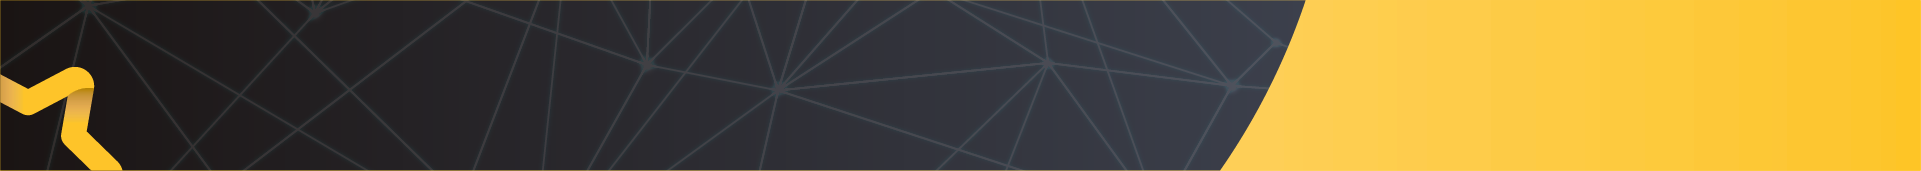
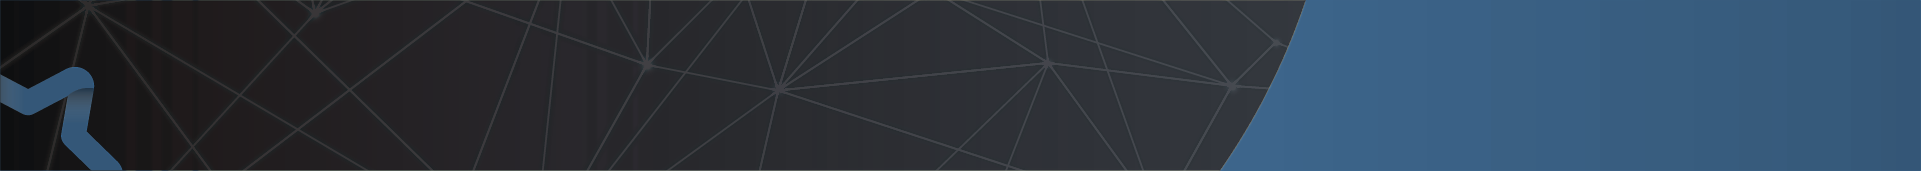
cambios visuales

diff --git a/src/app/TopMenu/TopMenu.component.html b/src/app/TopMenu/TopMenu.component.html
@@ -1,6 +1,6 @@
 <nav class="navbar navbar-expand-md navbar-dark gris ">
-  <a class="navbar-brand" routerLink="/Inicio">
-    <img class="img-fluid" [src]="company.logo" alt="" />
+  <a class="navbar-brand" routerLink="/Inicio" style="width: 100%;">
+    <img class="img-fluid" src="assets/img/urrea_white.svg" alt="" />
   </a>
 
   <button class="navbar-toggler" type="button" data-toggle="collapse"
@@ -18,7 +18,7 @@
         </li> -->
         <li class="nav-item dropdown mr-2 mt-auto mb-auto notificaciones">
           <a class="nav-link pb-0 pt-0" href="javascript:void(0);" id="notificacionsDropdown" role="button" data-toggle="dropdown" aria-haspopup="true" aria-expanded="false" (click)="verNotificaciones()">
-            <i class="fas fa-1x fa-bell" style="color: #0B3B59;"></i><span *ngIf='show' class="badge badge-pill badge-warning">{{ notificaciones.conteoNoLeidos }}</span>
+            <i class="fas fa-1x fa-bell" style="color: white;"></i><span *ngIf='show' class="badge badge-pill badge-warning">{{ notificaciones.conteoNoLeidos }}</span>
           </a>
           <div id="text-notificaciones">Notificaciones</div>
           <div class="dropdown-menu" aria-labelledby="notificacionsDropdown">
@@ -37,7 +37,7 @@
         </li>
         <li class="nav-item dropdown mr-2 mt-auto mb-auto">
           <a class="nav-link dropdown-toggle" href="#" id="navbarDropdownMenuLink" role="button" data-toggle="dropdown" aria-haspopup="true" aria-expanded="false">
-            <span style="color: black;">{{ user.Nombre + ' ' + user.Paterno + ' ' + user.Materno }}</span>
+            <span style="color: white;">{{ user.Nombre + ' ' + user.Paterno + ' ' + user.Materno }}</span>
           </a>
           <div class="dropdown-menu" aria-labelledby="navbarDropdownMenuLink">
             <a *ngIf="accesoAdmin" class="dropdown-item" routerLink="/admin">Administración</a>

diff --git a/src/app/store/producto/producto.component.scss b/src/app/store/producto/producto.component.scss
@@ -22,7 +22,7 @@
         font-size: 48px;
         // line-height: 32px;
         font-weight: bold;
-        color: orange;
+        color: #539BC1;
         display: flex;
         align-items: center;
         img{
@@ -65,7 +65,7 @@
             }
         }
         .btn-add-cart{
-            background-color: orange;
+            background-color: #539BC1;
             font-weight: 900;
             border-radius: 20px;
             color: white;
@@ -81,7 +81,7 @@
             display: block;
             margin-top: 15px;
             font-weight: 900;
-            color: orange;
+            color: #539BC1;
         }
     }
     .sin-stock{
@@ -102,7 +102,7 @@
             .green{
                 width: 136px;
                 height: 100%;
-                background-color: orange;
+                background-color: #539BC1;
             }
         }
     }
@@ -135,7 +135,7 @@
         .green{
             width: 136px;
             height: 100%;
-            background-color: orange;
+            background-color: #539BC1;
         }
     }
     a{
@@ -147,7 +147,7 @@
         text-decoration: none;
         border-bottom: 2px solid #ddd;
         &:hover{
-            border-bottom-color: orange;
+            border-bottom-color: #539BC1;
         }
     }
 }
@@ -160,7 +160,7 @@
     align-items: center;
     i{
         padding: 18px 20px;
-        background: orange;
+        background: #539BC1;
         color: white;
         margin-right: 24px;
         border-radius: 50%;

diff --git a/src/app/ReconocerAOtros/EnviarReconocimiento/EnviarReconocimiento.component.scss b/src/app/ReconocerAOtros/EnviarReconocimiento/EnviarReconocimiento.component.scss
@@ -14,7 +14,7 @@
         color: white;
         font-size: 22px;
         span{
-            color: orange;
+            color: #539BC1;
         }
     }
 }
@@ -82,7 +82,7 @@
         .simbolo{
             max-width: 90px;
             #simbolo{
-                color: orange;
+                color: #539BC1;
                 font-size: 60px;
                 font-weight: 900;
                 line-height: 1;
@@ -165,7 +165,7 @@
             font-size: 26px;
             white-space: break-spaces;
             i{
-                color: orange;
+                color: #539BC1;
                 font-size: 30px;
                 margin-right: 10px;
                 svg{
@@ -182,7 +182,7 @@
         }
         .search{
             i{
-                color: orange;
+                color: #539BC1;
                 position: absolute;
                 right: 30px;
                 top: 10px;
@@ -192,7 +192,7 @@
         }
         .competencias-list{
             i{
-                color: orange;
+                color: #539BC1;
                 font-size: 30px;
                 margin-right: 10px;
                 position: absolute;
@@ -233,7 +233,7 @@
     display: flex;
     align-items: center;
     button{
-        background-color: orange;
+        background-color: #539BC1;
         color: white;
         font-weight: bold;
         font-size: 2.6vw;

diff --git a/src/app/AdministrarTienda/InicioStore/InicioStore.component.scss b/src/app/AdministrarTienda/InicioStore/InicioStore.component.scss
@@ -11,7 +11,7 @@
         &:hover{
             border-width: 2px;
             border-style: solid;
-            border-color: orange !important;
+            border-color: #539BC1 !important;
         }
     }
     .btn-rechazar{
@@ -34,7 +34,7 @@
         border-color: #F57F10 !important;
         font-size: 14px;
         i{
-            color: orange;
+            color: #539BC1;
         }
         &:hover{
             border-width: 2px;
@@ -49,12 +49,12 @@
         color: white;
         font-size: 14px;
         i{
-            color: #orange;
+            color: #539BC1;
         }
         &:hover{
             border-width: 2px;
             border-style: solid;
-            border-color: #orange !important;
+            border-color: #539BC1 !important;
         }
     }
 
@@ -65,7 +65,7 @@
       text-transform: uppercase;
       font-size: 14px;
         i{
-            color: orange;
+            color: #539BC1;
         }
     }
     .rechazado{
@@ -75,7 +75,7 @@
       text-transform: uppercase;
       font-size: 14px;
         i{
-            color: orange;
+            color: #539BC1;
         }
     }
 }

diff --git a/src/app/store/catalogo/catalogo.component.scss b/src/app/store/catalogo/catalogo.component.scss
@@ -1,5 +1,5 @@
 .header{
-    background: url('../../../assets/img/banners/tienda.png');
+    background: url('../../../assets/img/banners/generico.png');
     height: 130px;
     background-position: center left;
     background-size: cover;
@@ -27,7 +27,7 @@
         .green{
             width: 136px;
             height: 100%;
-            background-color: orange;
+            background-color: #539BC1;
         }
     }
 }
@@ -82,10 +82,10 @@
                 padding-bottom: 5px;
                 &.current, &:hover{
                     .img{
-                        background: orange !important;
+                        background: #539BC1 !important;
                     }
                     a{
-                        color: orange !important;
+                        color: #539BC1 !important;
                     }
                 }
             }
@@ -117,7 +117,7 @@
     align-items: center;
     i{
         padding: 18px 20px;
-        background: orange;
+        background: #539BC1;
         color: white;
         margin-right: 24px;
         border-radius: 50%;

diff --git a/notificaciones/Notificacion-Aceptado.html b/notificaciones/Notificacion-Aceptado.html
@@ -12,7 +12,7 @@
 	</tr>
 	<tr>
 		<td style="width: 600px; height: auto; padding: 20px;text-align:center; background: #fff;">
-			<h2 style="font-size: 30px;font-weight: bold;background: #0b3b59;padding: 15px;border-radius: 0px 0px 25px 0px;color: white;"><span style="color: orange;">{{competencia_id}}</span> {{competencia_nombre}}:</h2>
+			<h2 style="font-size: 30px;font-weight: bold;background: #0b3b59;padding: 15px;border-radius: 0px 0px 25px 0px;color: white;"><span style="color: #539BC1;">{{competencia_id}}</span> {{competencia_nombre}}:</h2>
 			<p style="text-align:left;font-weight: bold;">*{{competencia_descripcion}}</p>
 		</td>
 	</tr>
@@ -61,7 +61,7 @@
 		<td>
 			<table cellpadding="0" cellspacing="0" style="width: 100%;">
 				<tr>
-					<td style="width:33%;height:9px;background-color: orange;"></td>
+					<td style="width:33%;height:9px;background-color: #539BC1;"></td>
 					<td style="width:33%;height:9px;background-color: #47B5E3;"></td>
 					<td style="width:33%;height:9px;background-color: #0B3B59;"></td>
 				</tr>

diff --git a/src/app/MisReconocimientos/MisReconocimientos.component.scss b/src/app/MisReconocimientos/MisReconocimientos.component.scss
@@ -1,5 +1,5 @@
 .header{
-    background: url('../../assets/img/banners/mis-reconocimientos.png');
+    background: url('../../assets/img/banners/generico.png');
     height: 150px;
     background-position: center left;
     background-size: cover;
@@ -15,7 +15,7 @@
         color: white;
         font-size: 22px;
         span{
-            color: orange;
+            color: #539BC1;
         }
     }
 }
@@ -51,7 +51,7 @@
                 margin-bottom: 10px;
                 border-radius: 25px;
                 .progress-bar{
-                    background-color: orange !important;
+                    background-color: #539BC1 !important;
                 }
             }
             p{

diff --git a/src/index.html b/src/index.html
@@ -1,5 +1,5 @@
 <!doctype html>
-<html lang="en">
+<html lang="es">
 <head>
   <meta charset="utf-8">
   <title>Aplausos</title>
@@ -14,6 +14,14 @@
   <meta name="viewport" content="width=device-width, initial-scale=1">
   <link href="https://fonts.googleapis.com/css?family=Roboto:300,400,500&display=swap" rel="stylesheet">
   <link href="https://fonts.googleapis.com/icon?family=Material+Icons" rel="stylesheet">
+  <link
+  rel="icon"
+    type="image/png"
+    href="favicon-16x16.png">
+  <link
+    rel="icon"
+    type="image/png"
+    href="favicon-32x32.png">
 </head>
 <body>
   <app-root></app-root>

diff --git a/src/app/store/carrito/carrito.component.scss b/src/app/store/carrito/carrito.component.scss
@@ -39,7 +39,7 @@
 }
 .modal{
     .modal-header{
-        background: url('../../../assets/img/banners/bolsa.png');
+        background: url('../../../assets/img/banners/generico.png');
         height: 100px;
         background-position: center left;
         background-size: cover;
@@ -155,7 +155,7 @@
                 display: flex;
                 align-items: center;
                 button{
-                    background-color: orange;
+                    background-color: #539BC1;
                     color: white;
                     font-weight: bold;
                     font-size: 30px;

diff --git a/src/app/ReconocerAOtros/ReconocerAOtros.component.scss b/src/app/ReconocerAOtros/ReconocerAOtros.component.scss
@@ -16,7 +16,7 @@
         color: white;
         font-size: 22px;
         span{
-            color: orange;
+            color: #539BC1;
         }
     }
 }
@@ -55,7 +55,7 @@ h1{
 //     margin-bottom: 0px;
 // }
 #disponibles{
-    background-color: orange;
+    background-color: #539BC1;
     color: white;
     max-width: 130px;
     float: right;
@@ -92,7 +92,7 @@ h1{
     margin-top: 35px;
     text-align: center;
     .reconocer{
-         background-color: orange;
+         background-color: #539BC1;
         color: white;
         font-weight: bold;
         font-size: 40px;

diff --git a/src/app/Administrador/rolesUsuarios/rolesUsuarios.component.html b/src/app/Administrador/rolesUsuarios/rolesUsuarios.component.html
@@ -1,7 +1,7 @@
 <div class="container-fluid bg-principal">
     <div class="row">
-        <!-- <div class="col-md-12" style="text-align: center; color: orange;">
-            <h4 style="text-align: center; color: orange;">Administración de Roles y Usuarios</h4>
+        <!-- <div class="col-md-12" style="text-align: center; color: #539BC1;">
+            <h4 style="text-align: center; color: #539BC1;">Administración de Roles y Usuarios</h4>
         </div> -->
         <div class="col-md-12 mt-3">
             <h2>Administración de Roles y Usuarios</h2>

diff --git a/src/app/Inicio/Inicio.component.scss b/src/app/Inicio/Inicio.component.scss
@@ -3,7 +3,7 @@
   width: 100%;
 }
 .header{
-    background: url('../../assets/img/banners/inicio.png');
+    background: url('../../assets/img/banners/banner.png');
     height: 190px;
     background-position: center left;
     background-size: cover;
@@ -79,10 +79,10 @@
             border-radius: 50px;
         }
         &:hover {
-            color: orange;
+            color: #539BC1;
         }
         &:hover img{
-            background-color: orange;
+            background-color: #539BC1;
         }
     }
 
